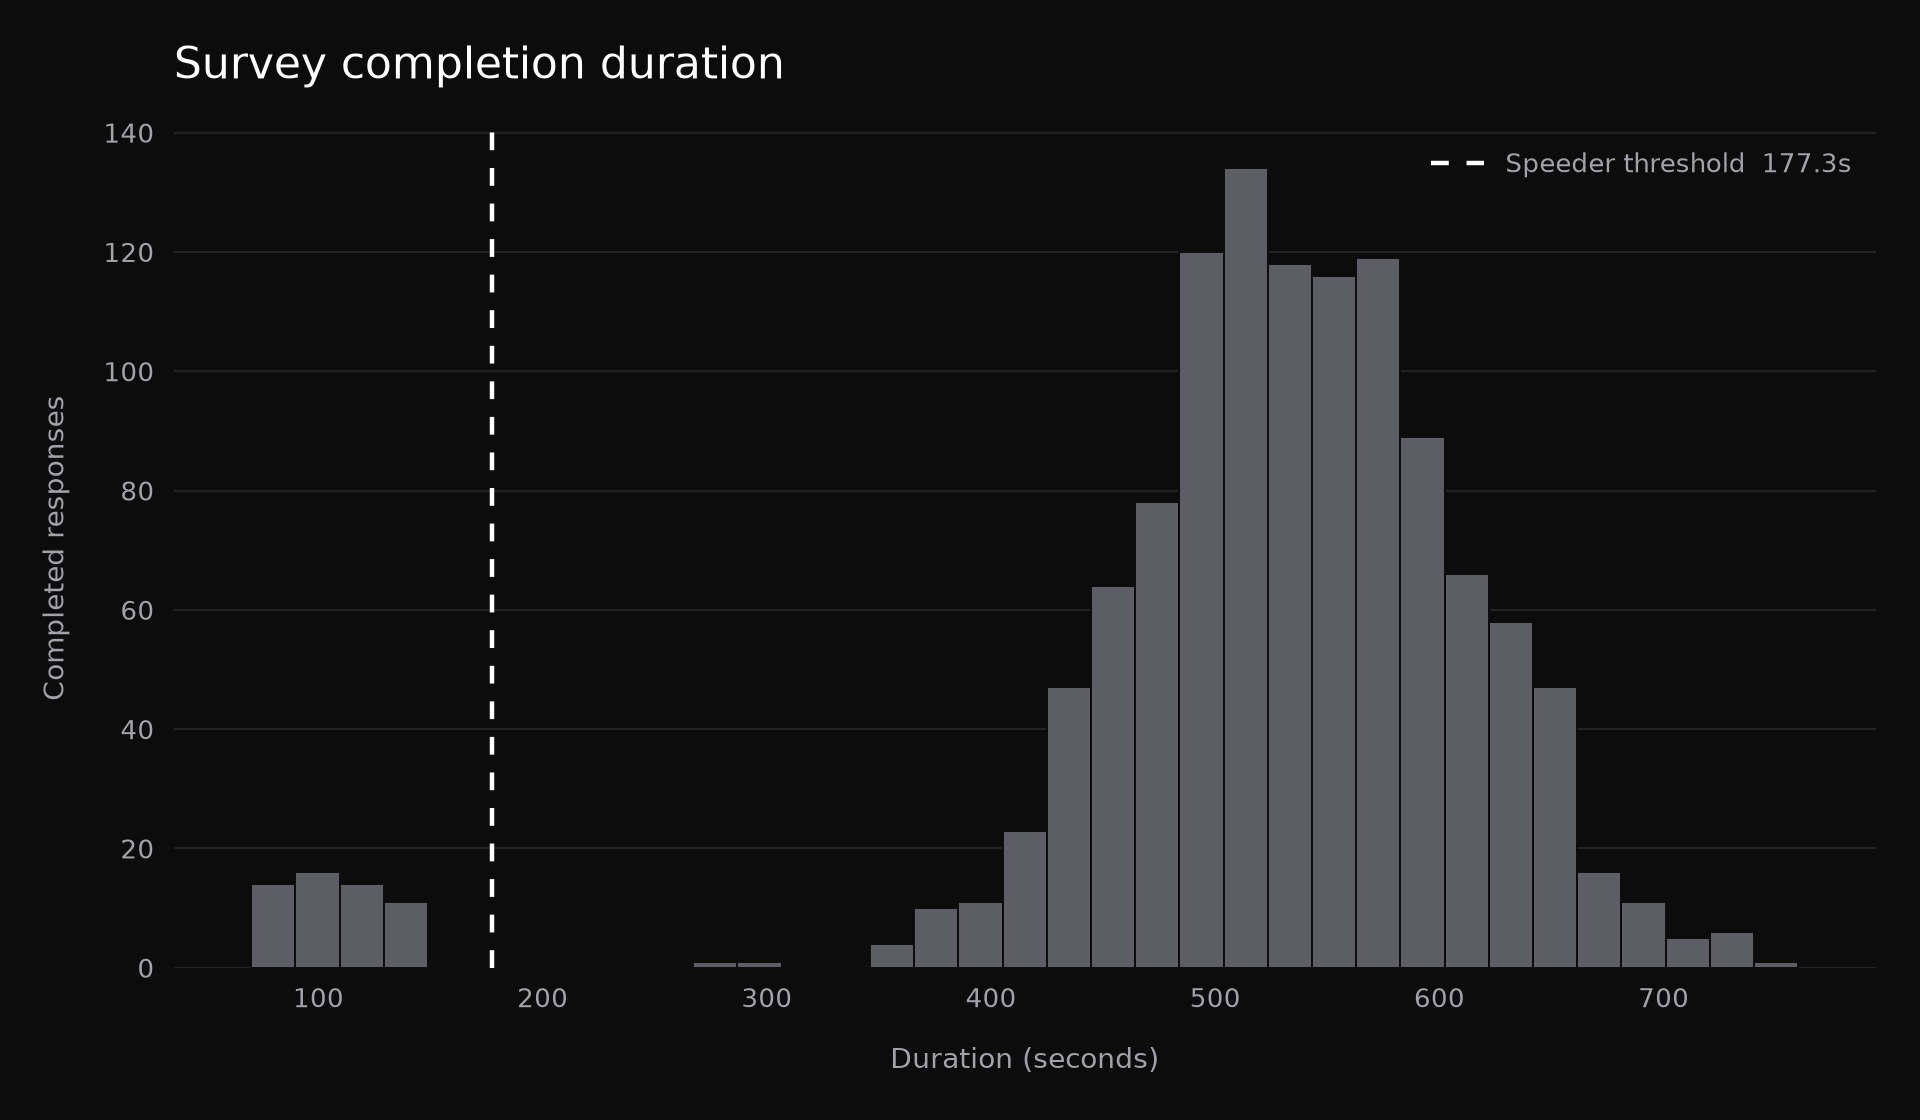
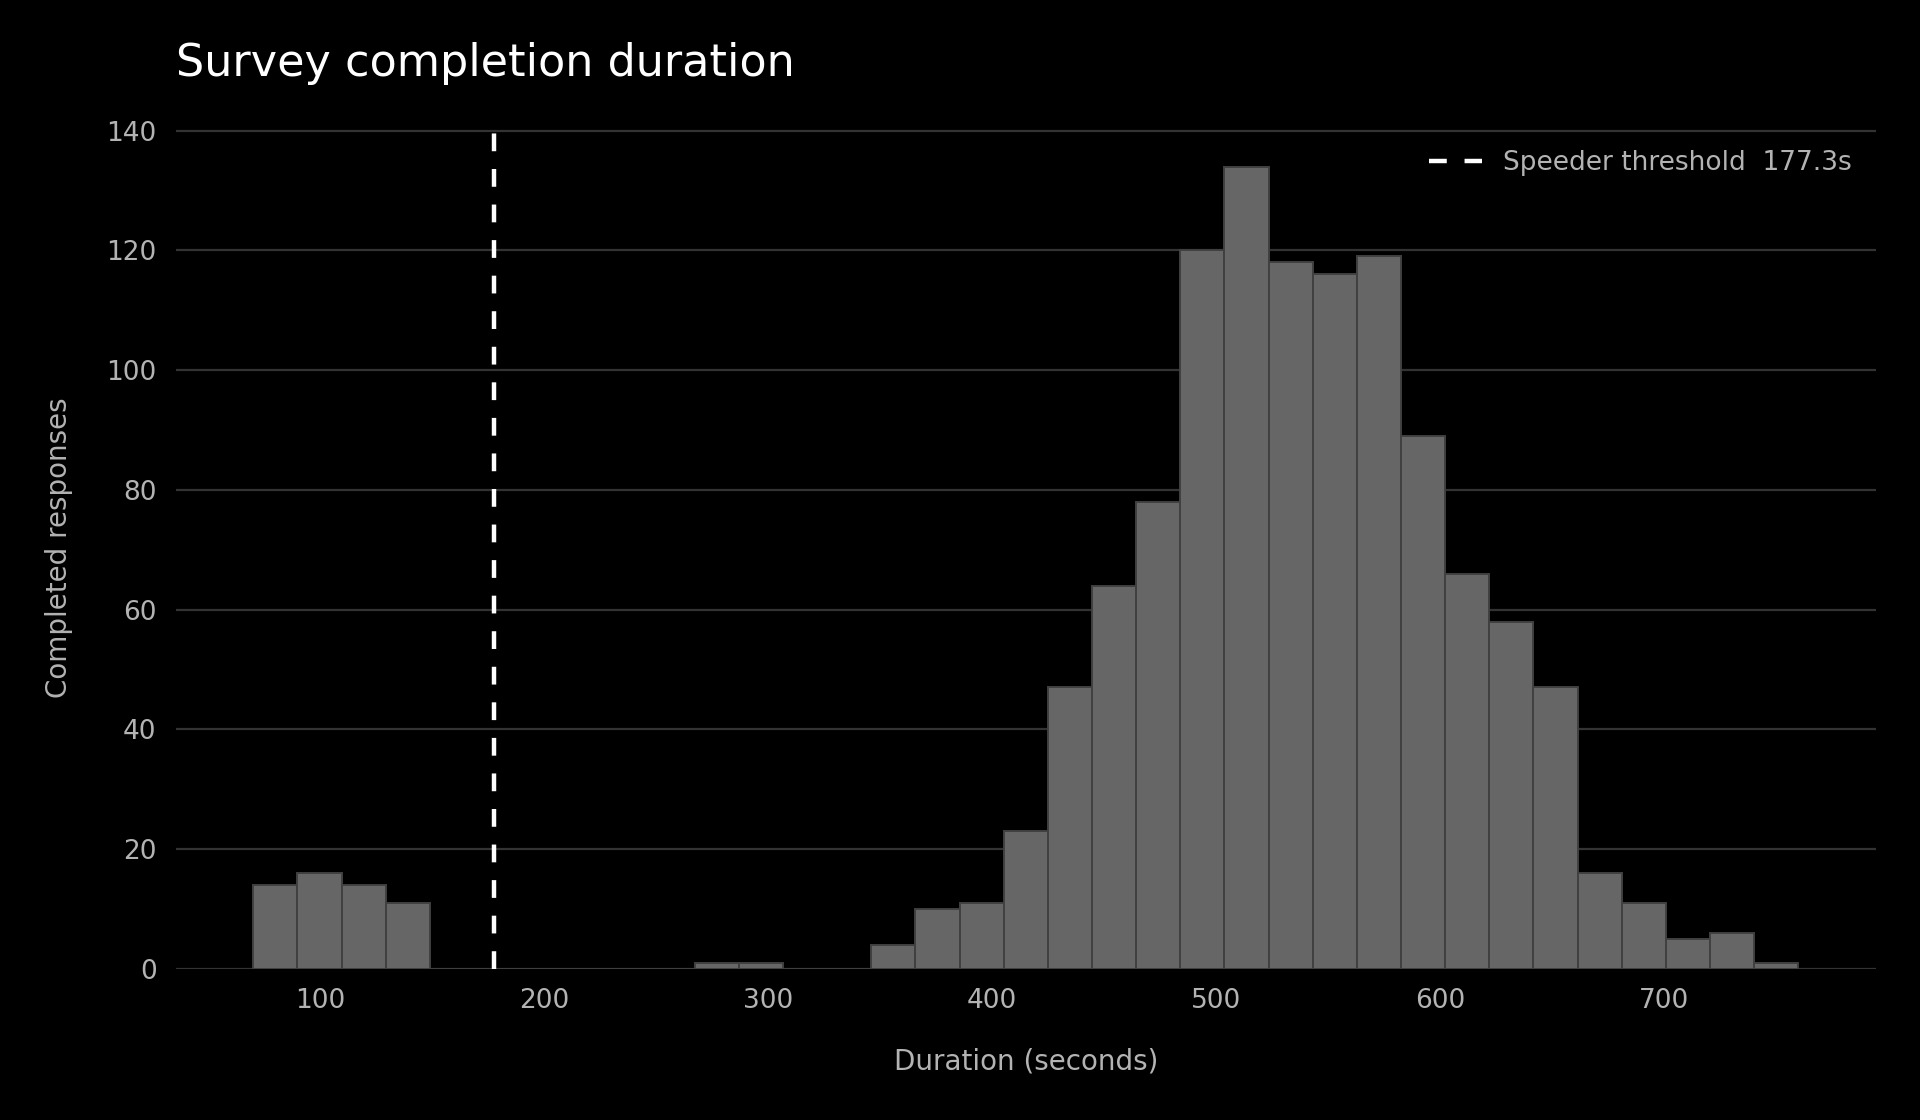
Apply website palette to audit figures
Use the exact grayscale website palette for chart backgrounds, text, bars, edges, and grids, then regenerate both committed figures.

diff --git a/analysis.py b/analysis.py
@@ -82,11 +82,12 @@ LOW_QUALITY_OPEN_TEXT = {
     "asdfgh",
 }
 
-FIGURE_BACKGROUND = "#0C0C0D"
+FIGURE_BACKGROUND = "#000000"
 FIGURE_TEXT = "#FFFFFF"
-FIGURE_MUTED = "#A2A2A9"
-FIGURE_LINE = "#313135"
-FIGURE_BAR = "#5D5D65"
+FIGURE_MUTED = "#B3B3B3"
+FIGURE_BAR = "#666666"
+FIGURE_EDGE = "#404040"
+FIGURE_LINE = "#333333"
 FIGURE_ACCENT = "#FFFFFF"
 
 
@@ -431,7 +432,7 @@ def style_figure_axis(ax: plt.Axes, grid_axis: str) -> None:
     ax.title.set_color(FIGURE_TEXT)
     for spine in ax.spines.values():
         spine.set_visible(False)
-    ax.grid(axis=grid_axis, color=FIGURE_LINE, linewidth=0.8, alpha=0.6)
+    ax.grid(axis=grid_axis, color=FIGURE_LINE, linewidth=0.8)
     ax.set_axisbelow(True)
 
 
@@ -448,7 +449,7 @@ def create_figures(df: pd.DataFrame, flags: pd.DataFrame, thresholds: dict[str, 
             completed,
             bins=35,
             color=FIGURE_BAR,
-            edgecolor=FIGURE_BACKGROUND,
+            edgecolor=FIGURE_EDGE,
             linewidth=0.7,
         )
         ax.axvline(
@@ -488,7 +489,14 @@ def create_figures(df: pd.DataFrame, flags: pd.DataFrame, thresholds: dict[str, 
 
         fig, ax = plt.subplots(figsize=(9.6, 5.6))
         style_figure_axis(ax, "x")
-        bars = ax.barh(labels, counts.values, height=0.58, color=FIGURE_BAR)
+        bars = ax.barh(
+            labels,
+            counts.values,
+            height=0.58,
+            color=FIGURE_BAR,
+            edgecolor=FIGURE_EDGE,
+            linewidth=0.7,
+        )
         maximum = max(float(counts.max()), 1.0)
         ax.set_xlim(0, maximum * 1.16)
         ax.set_title(
